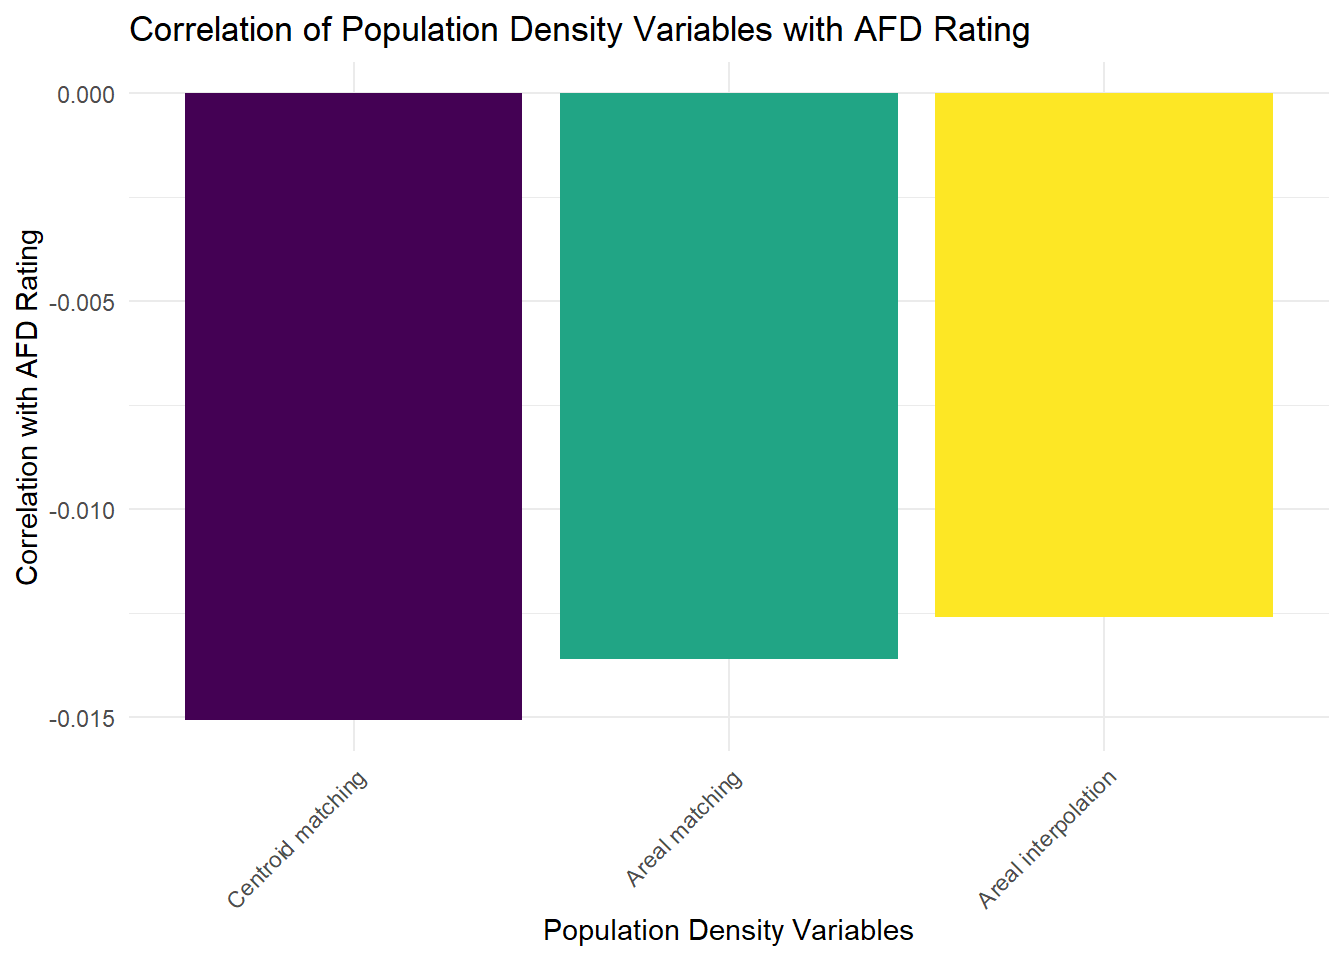
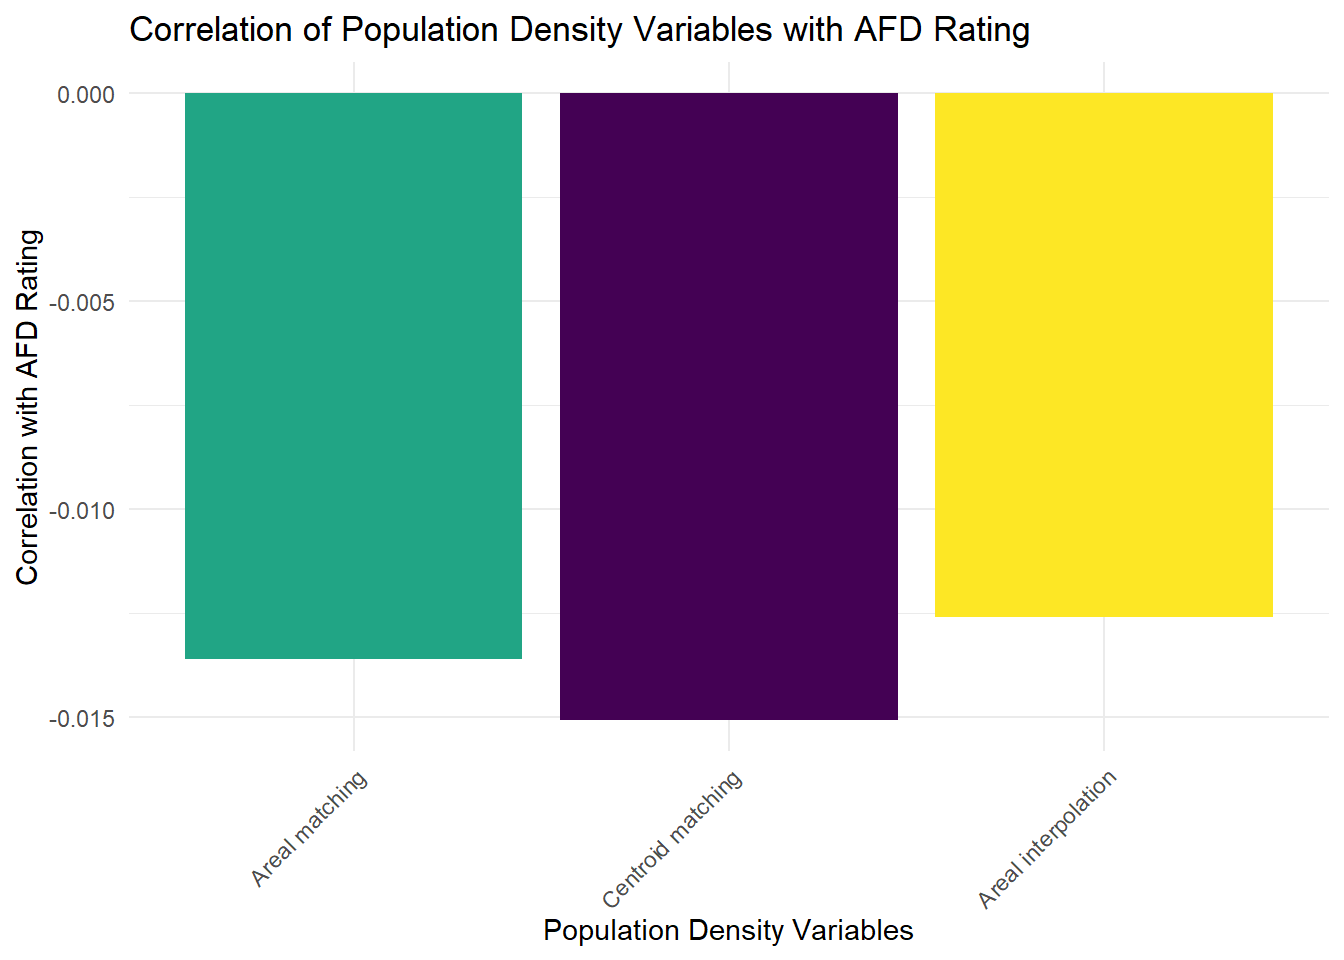
package update

diff --git a/index.html b/index.html
@@ -1001,34 +1001,36 @@ Important
 <span id="cb23-36"><a href="#cb23-36" aria-hidden="true" tabindex="-1"></a></span>
 <span id="cb23-37"><a href="#cb23-37" aria-hidden="true" tabindex="-1"></a><span class="co"># Melt the correlation matrix into a long format</span></span>
 <span id="cb23-38"><a href="#cb23-38" aria-hidden="true" tabindex="-1"></a>correlations_long <span class="ot">&lt;-</span> correlations <span class="sc">%&gt;%</span></span>
-<span id="cb23-39"><a href="#cb23-39" aria-hidden="true" tabindex="-1"></a>  reshape2<span class="sc">::</span><span class="fu">melt</span>(<span class="at">id.vars =</span> <span class="st">"term"</span>) <span class="sc">%&gt;%</span></span>
-<span id="cb23-40"><a href="#cb23-40" aria-hidden="true" tabindex="-1"></a>  dplyr<span class="sc">::</span><span class="fu">rename</span>(</span>
-<span id="cb23-41"><a href="#cb23-41" aria-hidden="true" tabindex="-1"></a>    <span class="at">x =</span> term,</span>
-<span id="cb23-42"><a href="#cb23-42" aria-hidden="true" tabindex="-1"></a>    <span class="at">y =</span> variable,</span>
-<span id="cb23-43"><a href="#cb23-43" aria-hidden="true" tabindex="-1"></a>    <span class="at">value =</span> value</span>
+<span id="cb23-39"><a href="#cb23-39" aria-hidden="true" tabindex="-1"></a>  <span class="co"># Pivot the data into long format</span></span>
+<span id="cb23-40"><a href="#cb23-40" aria-hidden="true" tabindex="-1"></a>  tidyr<span class="sc">::</span><span class="fu">pivot_longer</span>(</span>
+<span id="cb23-41"><a href="#cb23-41" aria-hidden="true" tabindex="-1"></a>    <span class="at">cols =</span> <span class="sc">-</span>term,        <span class="co"># Keep the 'term' column as is</span></span>
+<span id="cb23-42"><a href="#cb23-42" aria-hidden="true" tabindex="-1"></a>    <span class="at">names_to =</span> <span class="st">"y"</span>,      <span class="co"># New column 'y' for variable names</span></span>
+<span id="cb23-43"><a href="#cb23-43" aria-hidden="true" tabindex="-1"></a>    <span class="at">values_to =</span> <span class="st">"value"</span>  <span class="co"># New column 'value' for correlation values</span></span>
 <span id="cb23-44"><a href="#cb23-44" aria-hidden="true" tabindex="-1"></a>  ) <span class="sc">%&gt;%</span></span>
-<span id="cb23-45"><a href="#cb23-45" aria-hidden="true" tabindex="-1"></a>  <span class="co"># Keep only correlations with 'afd_rating'</span></span>
-<span id="cb23-46"><a href="#cb23-46" aria-hidden="true" tabindex="-1"></a>  dplyr<span class="sc">::</span><span class="fu">filter</span>(x <span class="sc">==</span> <span class="st">"afd_rating"</span> <span class="sc">&amp;</span> x <span class="sc">!=</span> y)</span>
-<span id="cb23-47"><a href="#cb23-47" aria-hidden="true" tabindex="-1"></a></span>
-<span id="cb23-48"><a href="#cb23-48" aria-hidden="true" tabindex="-1"></a><span class="co"># Create a custom label mapping (this is just an example)</span></span>
-<span id="cb23-49"><a href="#cb23-49" aria-hidden="true" tabindex="-1"></a>custom_labels <span class="ot">&lt;-</span> <span class="fu">c</span>(</span>
-<span id="cb23-50"><a href="#cb23-50" aria-hidden="true" tabindex="-1"></a>  <span class="st">"zip_pop_dens"</span> <span class="ot">=</span> <span class="st">"ZIP code"</span>,</span>
-<span id="cb23-51"><a href="#cb23-51" aria-hidden="true" tabindex="-1"></a>  <span class="st">"cent_pop_dens"</span> <span class="ot">=</span> <span class="st">"Centroid matching"</span>,</span>
-<span id="cb23-52"><a href="#cb23-52" aria-hidden="true" tabindex="-1"></a>  <span class="st">"areal_pop_dens"</span> <span class="ot">=</span> <span class="st">"Areal matching"</span>,</span>
-<span id="cb23-53"><a href="#cb23-53" aria-hidden="true" tabindex="-1"></a>  <span class="st">"interpolation_pop_dens"</span> <span class="ot">=</span> <span class="st">"Areal interpolation"</span></span>
-<span id="cb23-54"><a href="#cb23-54" aria-hidden="true" tabindex="-1"></a>)</span>
-<span id="cb23-55"><a href="#cb23-55" aria-hidden="true" tabindex="-1"></a></span>
-<span id="cb23-56"><a href="#cb23-56" aria-hidden="true" tabindex="-1"></a><span class="co"># Plot the correlation coefficients as a bar chart</span></span>
-<span id="cb23-57"><a href="#cb23-57" aria-hidden="true" tabindex="-1"></a>ggplot2<span class="sc">::</span><span class="fu">ggplot</span>(correlations_long, ggplot2<span class="sc">::</span><span class="fu">aes</span>(<span class="at">x =</span> y, <span class="at">y =</span> value, <span class="at">fill =</span> value)) <span class="sc">+</span></span>
-<span id="cb23-58"><a href="#cb23-58" aria-hidden="true" tabindex="-1"></a>  ggplot2<span class="sc">::</span><span class="fu">geom_bar</span>(<span class="at">stat =</span> <span class="st">"identity"</span>, <span class="at">show.legend =</span> <span class="cn">FALSE</span>) <span class="sc">+</span></span>
-<span id="cb23-59"><a href="#cb23-59" aria-hidden="true" tabindex="-1"></a>  viridis<span class="sc">::</span><span class="fu">scale_fill_viridis</span>(<span class="at">option =</span> <span class="st">"D"</span>) <span class="sc">+</span>  <span class="co"># Apply viridis color scale</span></span>
-<span id="cb23-60"><a href="#cb23-60" aria-hidden="true" tabindex="-1"></a>  ggplot2<span class="sc">::</span><span class="fu">labs</span>(<span class="at">title =</span> <span class="st">"Correlation of Population Density Variables with AFD Rating"</span>,</span>
-<span id="cb23-61"><a href="#cb23-61" aria-hidden="true" tabindex="-1"></a>       <span class="at">x =</span> <span class="st">"Population Density Variables"</span>,</span>
-<span id="cb23-62"><a href="#cb23-62" aria-hidden="true" tabindex="-1"></a>       <span class="at">y =</span> <span class="st">"Correlation with AFD Rating"</span>) <span class="sc">+</span></span>
-<span id="cb23-63"><a href="#cb23-63" aria-hidden="true" tabindex="-1"></a>  <span class="co"># Customize the x-axis labels with custom names</span></span>
-<span id="cb23-64"><a href="#cb23-64" aria-hidden="true" tabindex="-1"></a>  ggplot2<span class="sc">::</span><span class="fu">scale_x_discrete</span>(<span class="at">labels =</span> custom_labels) <span class="sc">+</span></span>
-<span id="cb23-65"><a href="#cb23-65" aria-hidden="true" tabindex="-1"></a>  ggplot2<span class="sc">::</span><span class="fu">theme_minimal</span>() <span class="sc">+</span></span>
-<span id="cb23-66"><a href="#cb23-66" aria-hidden="true" tabindex="-1"></a>  ggplot2<span class="sc">::</span><span class="fu">theme</span>(<span class="at">axis.text.x =</span> ggplot2<span class="sc">::</span><span class="fu">element_text</span>(<span class="at">angle =</span> <span class="dv">45</span>, <span class="at">hjust =</span> <span class="dv">1</span>))</span></code><button title="Copy to Clipboard" class="code-copy-button"><i class="bi"></i></button></pre></div>
+<span id="cb23-45"><a href="#cb23-45" aria-hidden="true" tabindex="-1"></a>  <span class="co"># Rename 'term' column to 'x' for consistency</span></span>
+<span id="cb23-46"><a href="#cb23-46" aria-hidden="true" tabindex="-1"></a>  dplyr<span class="sc">::</span><span class="fu">rename</span>(<span class="at">x =</span> term) <span class="sc">%&gt;%</span></span>
+<span id="cb23-47"><a href="#cb23-47" aria-hidden="true" tabindex="-1"></a>  <span class="co"># Filter for correlations with 'afd_rating' and not with itself</span></span>
+<span id="cb23-48"><a href="#cb23-48" aria-hidden="true" tabindex="-1"></a>  dplyr<span class="sc">::</span><span class="fu">filter</span>(x <span class="sc">==</span> <span class="st">"afd_rating"</span> <span class="sc">&amp;</span> x <span class="sc">!=</span> y)</span>
+<span id="cb23-49"><a href="#cb23-49" aria-hidden="true" tabindex="-1"></a></span>
+<span id="cb23-50"><a href="#cb23-50" aria-hidden="true" tabindex="-1"></a><span class="co"># Create a custom label mapping (this is just an example)</span></span>
+<span id="cb23-51"><a href="#cb23-51" aria-hidden="true" tabindex="-1"></a>custom_labels <span class="ot">&lt;-</span> <span class="fu">c</span>(</span>
+<span id="cb23-52"><a href="#cb23-52" aria-hidden="true" tabindex="-1"></a>  <span class="st">"zip_pop_dens"</span> <span class="ot">=</span> <span class="st">"ZIP code"</span>,</span>
+<span id="cb23-53"><a href="#cb23-53" aria-hidden="true" tabindex="-1"></a>  <span class="st">"cent_pop_dens"</span> <span class="ot">=</span> <span class="st">"Centroid matching"</span>,</span>
+<span id="cb23-54"><a href="#cb23-54" aria-hidden="true" tabindex="-1"></a>  <span class="st">"areal_pop_dens"</span> <span class="ot">=</span> <span class="st">"Areal matching"</span>,</span>
+<span id="cb23-55"><a href="#cb23-55" aria-hidden="true" tabindex="-1"></a>  <span class="st">"interpolation_pop_dens"</span> <span class="ot">=</span> <span class="st">"Areal interpolation"</span></span>
+<span id="cb23-56"><a href="#cb23-56" aria-hidden="true" tabindex="-1"></a>)</span>
+<span id="cb23-57"><a href="#cb23-57" aria-hidden="true" tabindex="-1"></a></span>
+<span id="cb23-58"><a href="#cb23-58" aria-hidden="true" tabindex="-1"></a><span class="co"># Plot the correlation coefficients as a bar chart</span></span>
+<span id="cb23-59"><a href="#cb23-59" aria-hidden="true" tabindex="-1"></a>ggplot2<span class="sc">::</span><span class="fu">ggplot</span>(correlations_long, ggplot2<span class="sc">::</span><span class="fu">aes</span>(<span class="at">x =</span> y, <span class="at">y =</span> value, <span class="at">fill =</span> value)) <span class="sc">+</span></span>
+<span id="cb23-60"><a href="#cb23-60" aria-hidden="true" tabindex="-1"></a>  ggplot2<span class="sc">::</span><span class="fu">geom_bar</span>(<span class="at">stat =</span> <span class="st">"identity"</span>, <span class="at">show.legend =</span> <span class="cn">FALSE</span>) <span class="sc">+</span></span>
+<span id="cb23-61"><a href="#cb23-61" aria-hidden="true" tabindex="-1"></a>  viridis<span class="sc">::</span><span class="fu">scale_fill_viridis</span>(<span class="at">option =</span> <span class="st">"D"</span>) <span class="sc">+</span>  <span class="co"># Apply viridis color scale</span></span>
+<span id="cb23-62"><a href="#cb23-62" aria-hidden="true" tabindex="-1"></a>  ggplot2<span class="sc">::</span><span class="fu">labs</span>(<span class="at">title =</span> <span class="st">"Correlation of Population Density Variables with AFD Rating"</span>,</span>
+<span id="cb23-63"><a href="#cb23-63" aria-hidden="true" tabindex="-1"></a>       <span class="at">x =</span> <span class="st">"Population Density Variables"</span>,</span>
+<span id="cb23-64"><a href="#cb23-64" aria-hidden="true" tabindex="-1"></a>       <span class="at">y =</span> <span class="st">"Correlation with AFD Rating"</span>) <span class="sc">+</span></span>
+<span id="cb23-65"><a href="#cb23-65" aria-hidden="true" tabindex="-1"></a>  <span class="co"># Customize the x-axis labels with custom names</span></span>
+<span id="cb23-66"><a href="#cb23-66" aria-hidden="true" tabindex="-1"></a>  ggplot2<span class="sc">::</span><span class="fu">scale_x_discrete</span>(<span class="at">labels =</span> custom_labels) <span class="sc">+</span></span>
+<span id="cb23-67"><a href="#cb23-67" aria-hidden="true" tabindex="-1"></a>  ggplot2<span class="sc">::</span><span class="fu">theme_minimal</span>() <span class="sc">+</span></span>
+<span id="cb23-68"><a href="#cb23-68" aria-hidden="true" tabindex="-1"></a>  ggplot2<span class="sc">::</span><span class="fu">theme</span>(<span class="at">axis.text.x =</span> ggplot2<span class="sc">::</span><span class="fu">element_text</span>(<span class="at">angle =</span> <span class="dv">45</span>, <span class="at">hjust =</span> <span class="dv">1</span>))</span></code><button title="Copy to Clipboard" class="code-copy-button"><i class="bi"></i></button></pre></div>
 <div class="cell-output-display">
 <div class="quarto-figure quarto-figure-center">
 <figure class="figure">
@@ -1054,7 +1056,7 @@ Important
 <li><strong>Area-weighted interpolation</strong>: This method addresses the limitation of areal matching by interpolating data from all overlapping units. However, it has the highest computational requirements and data needs. In our example, it did not clearly outperform the other methods but provided the most consistent results across all spatial units.</li>
 <li><strong>Robustness Checks</strong>: To ensure the reliability of findings, researchers should assess the robustness of their matching method by comparing it with at least one alternative approach. This is especially important when exploring how contextual information, such as population density or other geographical factors, is associated with individual-level attitudes or behavior. Robustness checks help confirm that the observed relationships are not influences by the matching process but show robust associations.</li>
 </ul>
-<p>Choosing the most suitable matching method is just one part of the equation. While the technical aspects of matching can improve the accuracy and consistency of linking processes, they do not replace the need for careful consideration of the conceptual underpinnings. One critical element is the definition of the “neighborhood” — the geographic unit that best captures the relevant social or environmental context for the research question under investigation. For example, the uncertain geographic context problem (UGCoP) <span class="citation" data-cites="kwan_uncertain_2012">(<a href="#ref-kwan_uncertain_2012" role="doc-biblioref">Kwan 2012</a>)</span> highlights the importance of carefully considering spatial boundaries in social research. The choice of neighborhood unit can significantly affect the results, particularly when studying phenomena such as support for far-right parties. The methods evaluated in this application provide different ways of addressing the challenges of mismatched or incongruent boundaries when defining a “neighborhood.” Still, researchers must remain aware that the linking process should be guided by a clear understanding of how these spatial definitions shape the conclusions drawn from integrated survey and contextual data.</p>
+<p>Still, choosing the most suitable matching method is just one part of the equation. While the technical aspects of matching can improve the accuracy and consistency of linking processes, they do not replace the need for careful consideration of the conceptual underpinnings: whatt is the geographic unit that best captures the relevant social or environmental context for the research question under investigation. For example, the uncertain geographic context problem (UGCoP) <span class="citation" data-cites="kwan_uncertain_2012">(<a href="#ref-kwan_uncertain_2012" role="doc-biblioref">Kwan 2012</a>)</span> highlights the importance of carefully considering spatial boundaries in social research. The choice of neighborhood unit can significantly affect the results, particularly when studying phenomena such as support for far-right parties. The methods evaluated in this application provide different ways of addressing the challenges of mismatched or incongruent boundaries when defining a “neighborhood.” Still, researchers must remain aware that the linking process should be guided by a clear understanding of how these spatial definitions shape the conclusions drawn from integrated survey and geospatial data.</p>
 </section>
 <section id="references" class="level1 unnumbered">
 
